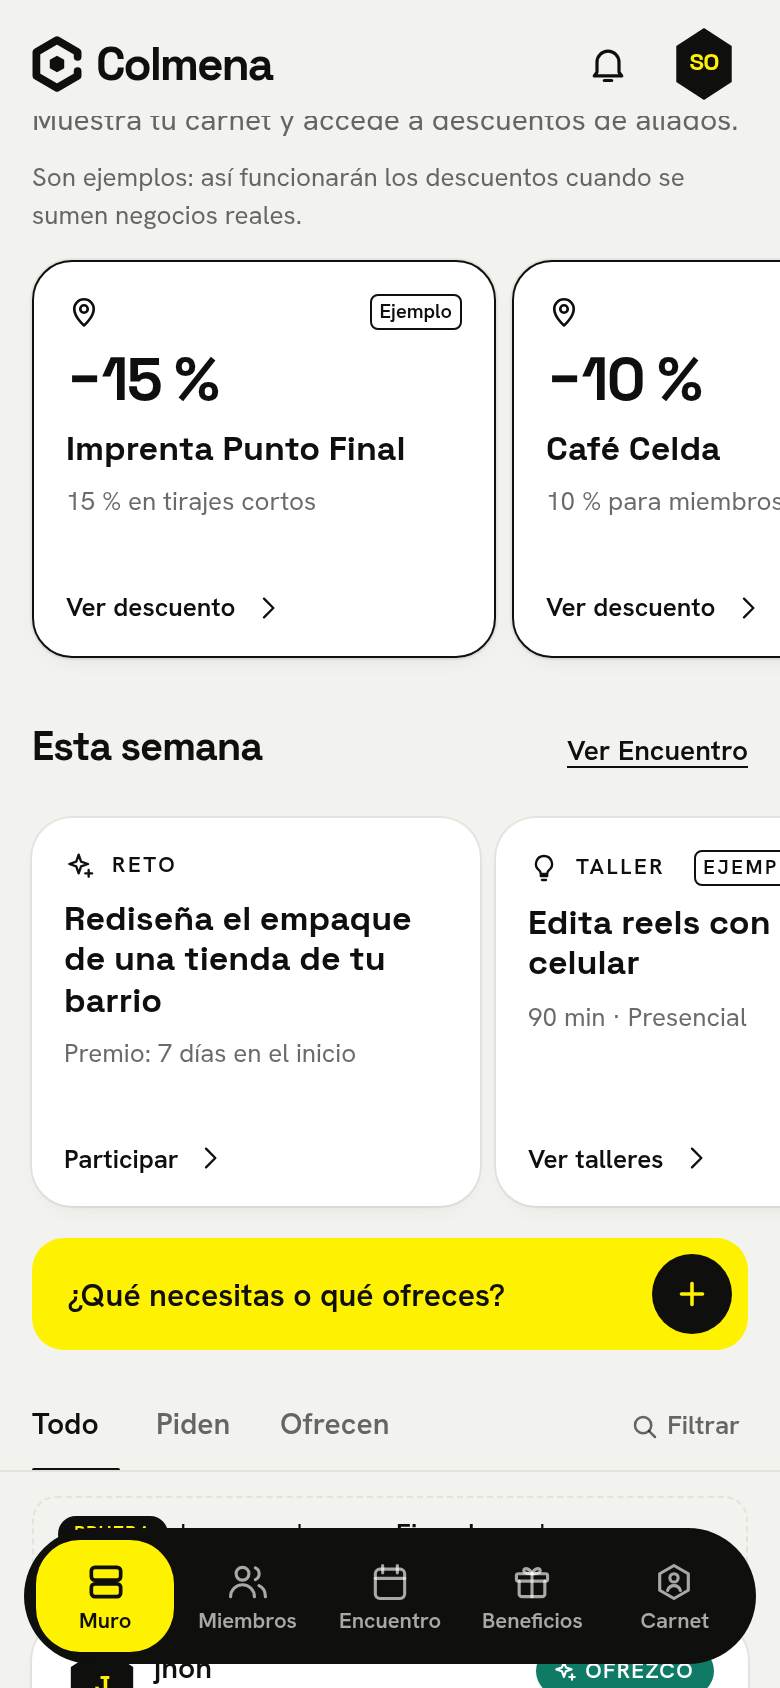
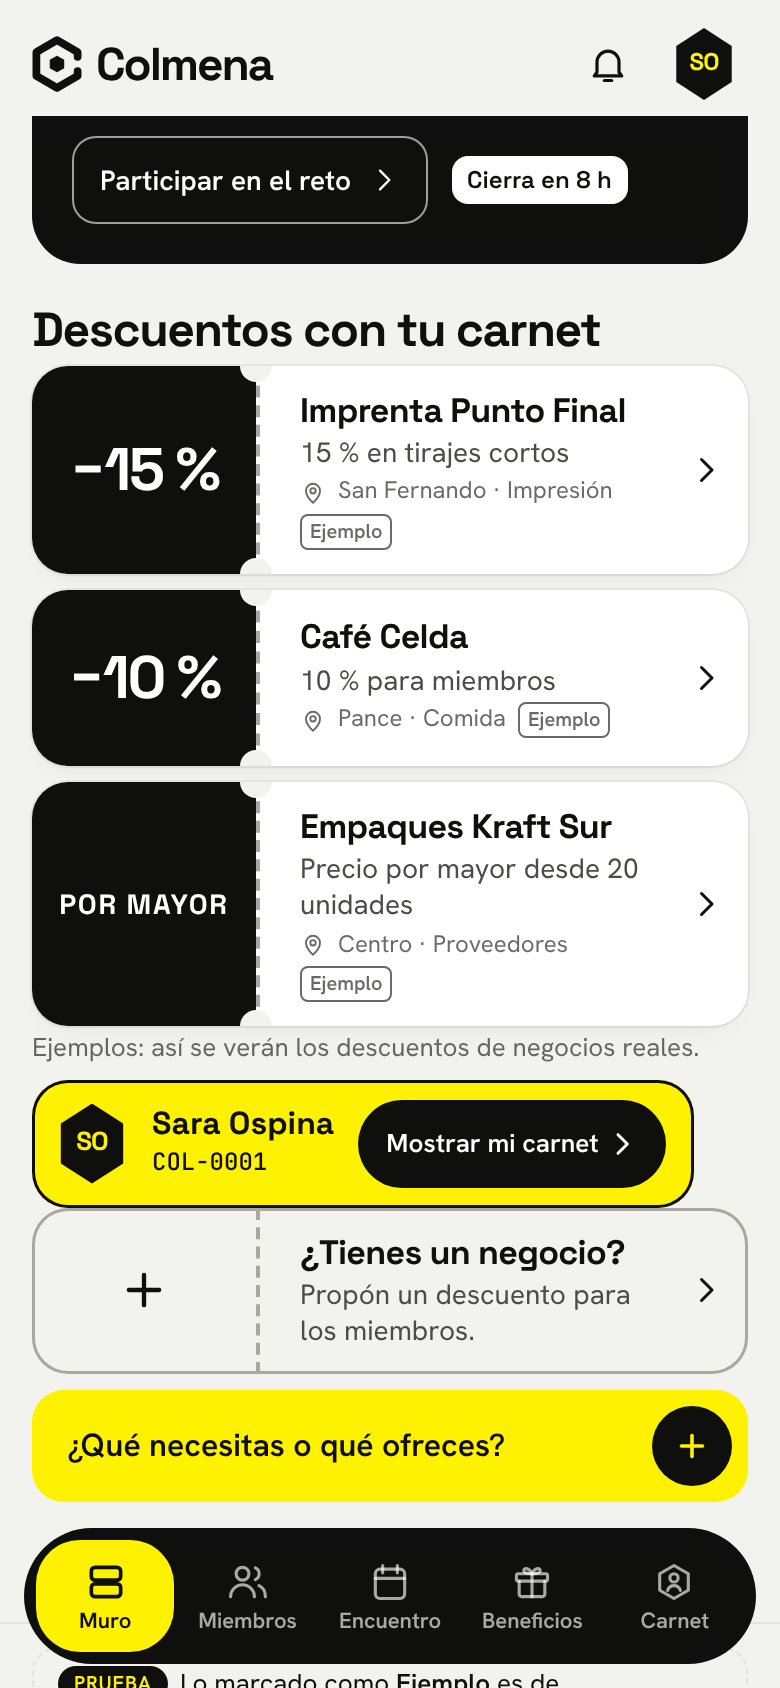
Documenta la segunda ronda del inicio con capturas y pruebas
Claude-Session: https://claude.ai/code/session_01NXLpfMcdTT21CPEoeYscCh

diff --git a/docs/home-destacados/README.md b/docs/home-destacados/README.md
@@ -52,6 +52,43 @@ Los scripts necesitan un preview local en el puerto 4174 (o `COLMENA_QA_ORIGIN`)
 
 Cada estado tiene además una captura `-vitrinas.png` a la misma posición vertical. [Carnet ganador](despues-carnet-ganador.png). Se inspeccionaron los archivos guardados. Se corrigieron el recorte inicial de la primera tarjeta horizontal (scroll-padding), el salto vertical al llegar datos (overflow-anchor del muro) y el desplazamiento de novedades al último elemento cuando llegaban tarjetas nuevas: esa vitrina espera a sus fuentes antes de presentar todas las tarjetas juntas. No bloquea la navegación ni las herramientas locales.
 
+## Segunda ronda: inicio atrapante (4 de noviembre de 2026)
+
+Misma rama y mismo PR. Comentarios de Jhon sobre la versión anterior: la franja de aliados se veía fea (título, línea gris, nota, tarjetas cortadas, hueco debajo), el encabezado y la tarjeta del destacado eran muy simples, y el inicio debía ser MUY atrapante, con formato de historias/destacados y sin la palabra "DCV".
+
+### Qué cambió
+1. **Sin "DCV" en la interfaz.** Bienvenida ("Colmena conecta a estudiantes que emprenden."), estado del carnet ("Activa") y textos de compartir ("la red de estudiantes que emprenden", en Registro y MiCarnet). `grep -rn DCV src` queda vacío y se revisaron `retos`, `encuentros`, `talleres`, `convocatorias` y `beneficios` en la base: ninguna fila lo contiene. No se tocó `docs/marca/` (el spec todavía dice "Activa · DCV": ver decisiones de Jhon). El dominio `colmena-dcv.netlify.app` sigue igual: es una URL, no un texto de la interfaz.
+2. **Perfil de prueba "jhon" eliminado** con migración de solo datos (`supabase/migraciones/20261104_borrar_perfil_prueba_jhon.sql`), solo por su id y con `not es_ejemplo`. Antes: 9 perfiles (1 real), 10+1 publicaciones; el objetivo tenía 1 publicación, 0 ayudas, 0 retos, 0 cuentas. Resultado: 1 publicación y 1 perfil borrados. Después: 8 perfiles (0 reales), 10 publicaciones (0 reales), 6 disponibles ahora. Revisión de estados: inicio, "Disponibles ahora", Miembros, destacado y bienvenida cargan sin vacíos ni errores (capturas más abajo y 17 comprobaciones de home).
+3. **Descuentos de aliados como cupones.** Cada uno es un cupón horizontal: bloque Tinta con el valor en grande (−15 %, −10 %, POR MAYOR), perforación con muescas y cuerpo Blanco con nombre, condición, zona y la etiqueta Ejemplo. Debajo, un carnet mini en Polen (con tu hexágono y número si tienes carnet) con el botón "Mostrar mi carnet", que abre la pantalla `mostrar` que ya existía (si no hay carnet, primero ofrece crearlo). Al final, una invitación con borde punteado, "¿Tienes un negocio?", que abre el formulario de propuesta ya existente (`proponer_beneficio`). Se apilan en vertical, así que no hay tarjetas cortadas ni huecos; el inicio muestra 3 y "Ver todos" lleva a Beneficios. No hay logos ni imágenes inventadas: el valor hace de imagen.
+4. **Destacados tipo historias.** Fila de anillos hexagonales justo bajo el encabezado, con íconos del kit propio: Destacado/Reto, Descuentos, Talleres, Cierran pronto (convocatorias con cierre en 21 días o menos) y Gratis (beneficios más útiles, en el mismo orden que Beneficios). Cada uno abre un visor a pantalla completa con las pantallas armadas solo con datos de la base (`src/lib/historias.js`, función pura con 6 pruebas). Una pantalla por descuento, taller, convocatoria y beneficio; el destacado y el reto llevan su pantalla. Todo lo de muestra conserva "Ejemplo". Si un grupo no tiene datos o su lectura falla, su anillo simplemente no aparece: nunca se bloquea nada.
+   - Visor (`src/components/Historias.jsx`): `<dialog>` modal (foco dentro y fondo inerte por el navegador), una barra por pantalla, tocar a la derecha adelanta y a la izquierda vuelve, mantener presionado pausa (la barra y el reloj se detienen juntos), deslizar de lado cambia de destacado, deslizar hacia abajo cierra, flechas del teclado y Escape. Con `prefers-reduced-motion` no avanza solo. Al terminar un destacado pasa al siguiente; al terminar el último, cierra. Cada pantalla tiene un solo botón en Polen con la acción (Participar, Ver carnet, Mostrar mi carnet, Ver talleres…).
+   - Visto/no visto en `localStorage` (`colmena.destacados.vistos.v1`), con firma del contenido: si cambian las pantallas de un anillo, vuelve a salir como nuevo. Si el almacenamiento falla, todo sigue funcionando.
+5. **Encabezado y tarjeta del destacado más ricos, sin llenarlos.**
+   - Encabezado: título más grande y una línea con "Disponibles ahora" (hexágonos y nombres de miembros con cupo, con la marca Ejemplo mientras todos sean de muestra) que lleva a Miembros. Para miembros, "Hola, Nombre" y "Esto es lo nuevo en la comunidad."
+   - Tarjeta sin ganador: cómo se gana en una línea de tres pasos con hexágonos (Participa · Reciben Útil · 7 días arriba) y la cuenta regresiva en una píldora. Con ganador: el avatar entra con un movimiento corto.
+   - Ritmo: encabezado → anillos → tarjeta oscura → cupones → publicar → publicaciones, con las vitrinas intercaladas: "Esta semana" después de la tercera publicación y "Ya los tienes por ser estudiante" (3 beneficios con logo) después de la séptima. Solo aparecen con el filtro "Todo" y sin categoría, y si hay pocas publicaciones salen al final. Así el tramo largo de publicaciones se interrumpe con superficies de forma distinta (tarjetas horizontales, lista) y hay razones para seguir bajando.
+   - Polen: botón de publicar y carnet mini como únicos focos; los anillos son Tinta/Blanco (visto = Blanco con borde fino, no visto = Tinta sólido). En el visor, Polen solo en el botón de acción.
+
+### Por qué esta composición
+Se pensaron cuatro opciones para el inicio: (a) anillos como único elemento nuevo y todo lo demás igual, (b) carrusel automático grande de portada, (c) anillos + cupones + vitrinas intercaladas, (d) mover los cupones debajo de las publicaciones. Se descartó (b) porque compite con la acción de publicar y se siente publicidad; (d) porque esconde el beneficio más tangible. Se eligió (c): los anillos dan la entrada rápida y conocida (formato Instagram) que pidió Jhon, la tarjeta oscura y los cupones conservan lo que ya le gustó, y las vitrinas intercaladas dan ritmo sin mover la acción principal. Para los aliados se descartó un carrusel horizontal (era lo que se veía cortado) y una tarjeta enorme; el cupón apilado se lee de un vistazo y escala a más negocios.
+
+### `--mono` fuera del carnet y la calculadora
+AGENTS.md dice que JetBrains Mono es solo para el número de carnet y las cifras de la calculadora. Se corrigió: `.cd` (cuenta regresiva), `.vence`, `.counter`, `.todo small` y `.m-cats button small` pasan a Space Grotesk 600 con cifras tabulares (las cifras van en Space Grotesk según el spec), y `.ficha pre` (texto de plantillas) pasa a Hanken Grotesk. Se mantienen en mono el número de carnet y el reloj de "Mostrar mi carnet", que es pantalla de carnet. Decisión de Jhon si prefiere que ese reloj también cambie.
+
+### Verificación de esta ronda
+- `npm run build`: correcto.
+- `node --test tests/destacados.test.js tests/historias.test.js`: 14 pruebas correctas.
+- `scripts/qa-home.cjs`: comprobaciones del home ampliadas (sin "DCV", cupones, invitación, carnet mini, anillos, visor, Escape, visto guardado); todas correctas antes y después del cierre del reto. [Resultado](resultados-home.json).
+- `scripts/qa-visor.cjs` (nuevo, con movimiento normal): avance solo, pausa al mantener, toques a derecha/izquierda, deslizar hacia abajo, Escape, foco dentro y almacenamiento bloqueado. Todas correctas.
+- `scripts/qa-fiabilidad.cjs` (35) y `scripts/qa-pwa.cjs` (6): siguen pasando. [Fiabilidad](qa-fiabilidad-resultados.json), [PWA](qa-pwa-resultados.json).
+- Sin escrituras reales a Supabase desde las pruebas (todas las RPC interceptadas). La única escritura de esta ronda fue el borrado autorizado del perfil de prueba.
+- Capturas a 390 × 844, escala 2, visitante y miembro, antes (`antes-pr-*`, estado del PR antes de esta ronda) y después (`despues-*`), con el reto abierto y cerrado: [visitante abierto](despues-visitante-abierto.png) · [visitante cerrado](despues-visitante-cerrado.png) · [miembro abierto](despues-miembro-abierto.png) · [miembro cerrado](despues-miembro-cerrado.png) · [vitrina intercalada](despues-visitante-abierto-intercalada.png) · visor: [reto](despues-visor-reto.png), [descuento](despues-visor-descuento.png), [destacado](despues-miembro-cerrado-visor.png) · [Beneficios](despues-beneficios.png). Antes: [visitante](antes-pr-visitante-abierto.png), [miembro cerrado](antes-pr-miembro-cerrado.png).
+
+### Decisiones abiertas de Jhon (nuevas)
+1. Actualizar `docs/marca/colmena-brand-spec.md`: el estado del carnet dice "Activa · DCV" y la app ahora dice "Activa".
+2. Si "Cierran pronto" debe usar 21 días o otra ventana, y si "Gratis" muestra 4 beneficios o más.
+3. Si el reloj de "Mostrar mi carnet" sigue en mono (hoy sí).
+
 ## Decisiones abiertas de Jhon
 
 1. Confirmar si el premio se decide automáticamente por votos o requiere confirmación manual. Implementado por votos según el encargo; no hay administración nueva ni premio escrito en la base.

diff --git a/TODO-AGENTES.md b/TODO-AGENTES.md
@@ -9,6 +9,9 @@ Marca con tu nombre lo que tomes. Lo visual es de diseño; lo de datos, de Claud
 - [x] Premio en reto y bienvenida; capturas y pruebas antes/después del cierre sin escrituras reales.
 - [ ] Jhon: decidir elección por votos o confirmación manual (hoy por votos, según encargo).
 - [ ] Jhon: definir contenido del reto 2; no se creó en la base.
+- [x] Claude: quitar "DCV" de la interfaz, borrar el perfil de prueba, cupones de aliados, destacados tipo historias con visor, encabezado y tarjeta más ricos, vitrinas intercaladas y `--mono` corregido.
+- [ ] Jhon: actualizar `docs/marca/colmena-brand-spec.md` ("Activa · DCV" → "Activa").
+- [ ] Jhon: confirmar ventana de "Cierran pronto" (21 días) y si el reloj de "Mostrar mi carnet" sigue en mono.
 - [ ] Revisar PR de `diseno/home-destacados` contra main. No fusionar sin indicación.
 
 ## Fiabilidad de los flujos (Codex, autorizada por Jhon)
